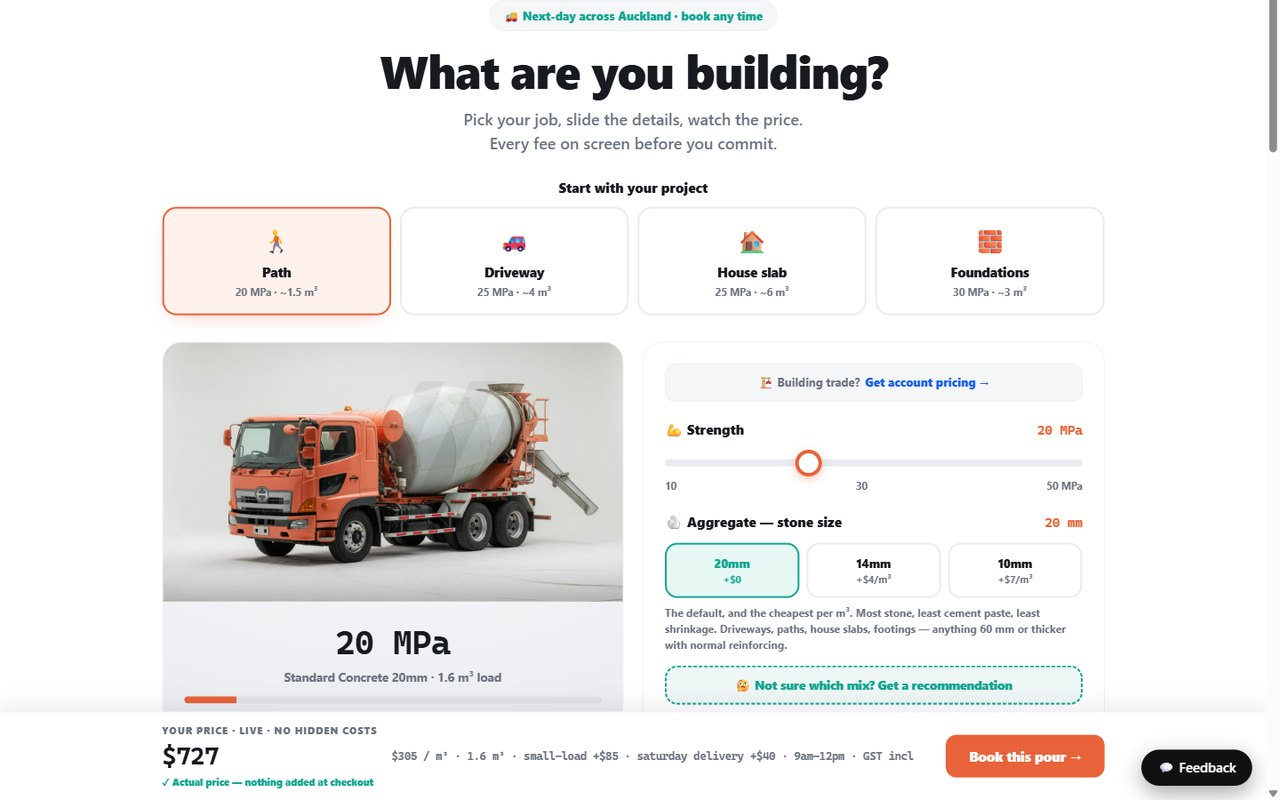
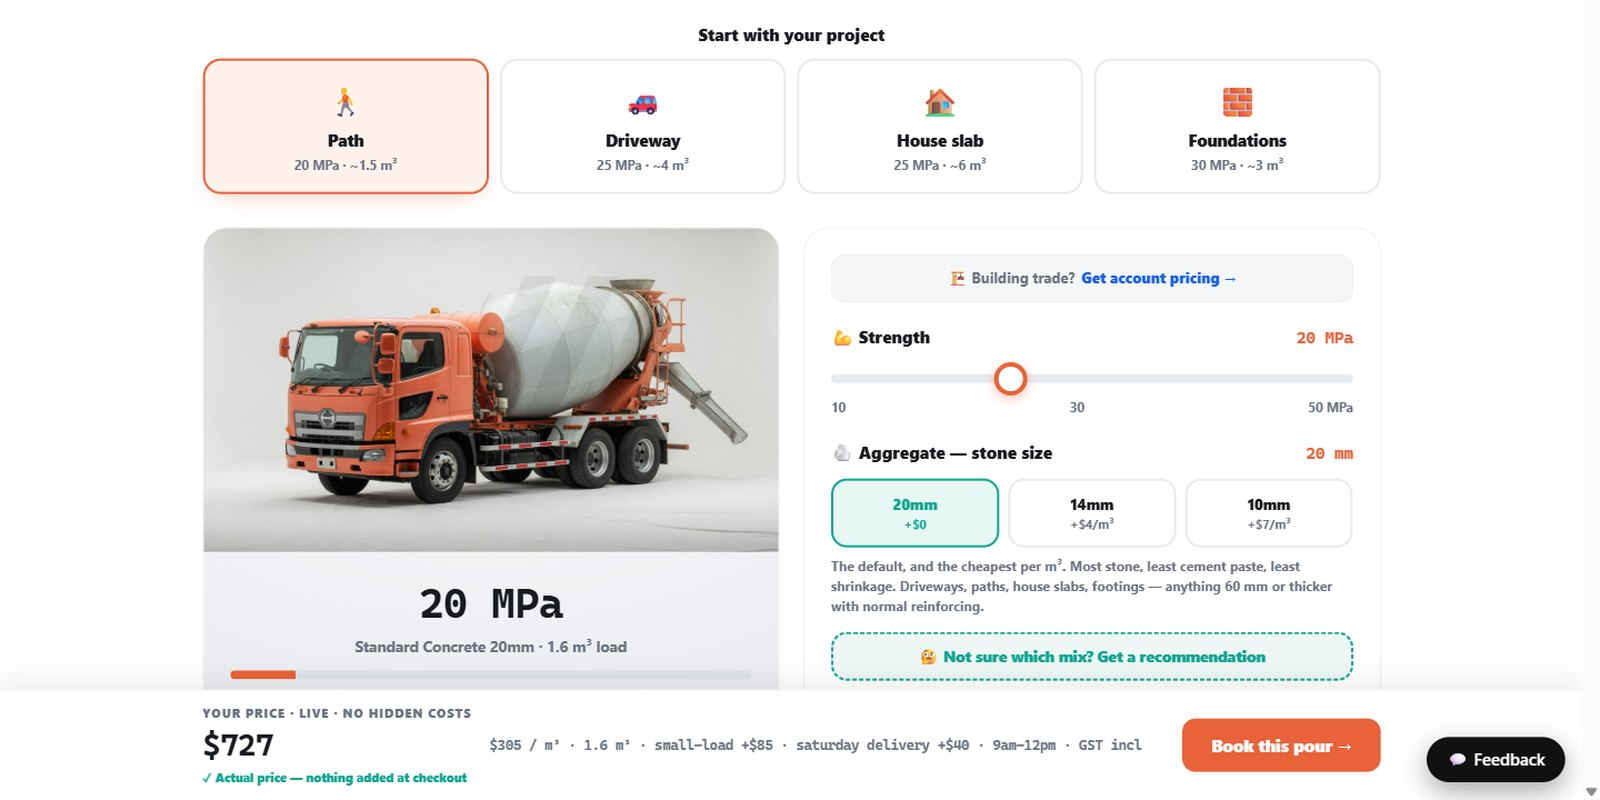
Call the invoice demo Vermeer Invoice. Recrop Concrete Online so the current truck and price show.

diff --git a/work/weekly-invoice.html b/work/weekly-invoice.html
@@ -3,7 +3,7 @@
 <head>
 <meta charset="utf-8">
 <meta name="viewport" content="width=device-width, initial-scale=1">
-<title>Weekly invoice — Gerhard Breukers</title>
+<title>Vermeer Invoice — Gerhard Breukers</title>
 <meta name="description" content="A phone-first invoicing app for a Dutch subcontractor: fill in hours, get a PDF, send it on WhatsApp. No accounts, no backend, no app store.">
 <link rel="preconnect" href="https://fonts.googleapis.com">
 <link rel="preconnect" href="https://fonts.gstatic.com" crossorigin>
@@ -27,7 +27,7 @@
 <header class="wrap case-head">
   <a class="back" href="../index.html#work">&larr; All work</a>
   <p class="eyebrow">Case study 02 — Live, used every week</p>
-  <h1>Weekly invoice</h1>
+  <h1>Vermeer Invoice</h1>
   <p class="lede">
     An invoicing app for one man with one job to do: type this week's hours, and send
     the invoice on WhatsApp before he puts the phone back in his pocket.

diff --git a/index.html b/index.html
@@ -64,11 +64,11 @@
 
   <a class="plate" href="work/weekly-invoice.html">
     <div class="plate-shot">
-      <img src="media/weekly-invoice.png" alt="Weekly invoice demo: hours on the left, generated invoice on the right" loading="lazy">
+      <img src="media/weekly-invoice.png" alt="Vermeer Invoice demo: hours on the left, generated invoice on the right" loading="lazy">
     </div>
     <div class="plate-body">
       <p class="plate-idx"><span class="live">02 · Live, used every week</span></p>
-      <h2>Weekly invoice</h2>
+      <h2>Vermeer Invoice</h2>
       <p>Type this week’s hours. Send the PDF on WhatsApp. No accounts, no backend, no app store.</p>
       <span class="plate-go">Read the case study →</span>
     </div>

diff --git a/work/aplus-factuur.html b/work/aplus-factuur.html
@@ -4,9 +4,9 @@
 <meta charset="utf-8">
 <meta http-equiv="refresh" content="0;url=weekly-invoice.html">
 <link rel="canonical" href="weekly-invoice.html">
-<title>Moved — Weekly invoice</title>
+<title>Moved — Vermeer Invoice</title>
 </head>
 <body>
-<p><a href="weekly-invoice.html">This case study is now called Weekly invoice.</a></p>
+<p><a href="weekly-invoice.html">This case study is now called Vermeer Invoice.</a></p>
 </body>
 </html>

diff --git a/css/site.css b/css/site.css
@@ -181,7 +181,7 @@ a { color: inherit; }
 .plate-shot img {
   position: absolute; inset: 0;
   width: 100%; height: 100%;
-  object-fit: cover; object-position: top center;
+  object-fit: cover; object-position: center center;
   transition: transform .7s cubic-bezier(.22, 1, .36, 1);
 }
 @media (hover: hover) {

diff --git a/work/one-more-year-pool.html b/work/one-more-year-pool.html
@@ -198,7 +198,7 @@ def stamp_static(endpoint, values):
   <a class="next" href="weekly-invoice.html">
     <div>
       <p class="eyebrow">Next case study</p>
-      <h3>Weekly invoice</h3>
+      <h3>Vermeer Invoice</h3>
     </div>
     <span class="arrow">&rarr;</span>
   </a>

diff --git a/PRODUCT.md b/PRODUCT.md
@@ -22,7 +22,7 @@ Each project answers, in order: the problem, the decision, a piece of real code,
 
 ## Operating Context
 
-Static HTML and CSS on GitHub Pages. No build step. Case studies live under `work/`. Four projects on the home page: One More Year (live pool), Weekly invoice (live invoice demo), Concrete Online (in build), PenTest+ Trainer (live PWA).
+Static HTML and CSS on GitHub Pages. No build step. Case studies live under `work/`. Four projects on the home page: One More Year (live pool), Vermeer Invoice (live invoice demo), Concrete Online (in build), PenTest+ Trainer (live PWA).
 
 ## Capabilities and Constraints
 
